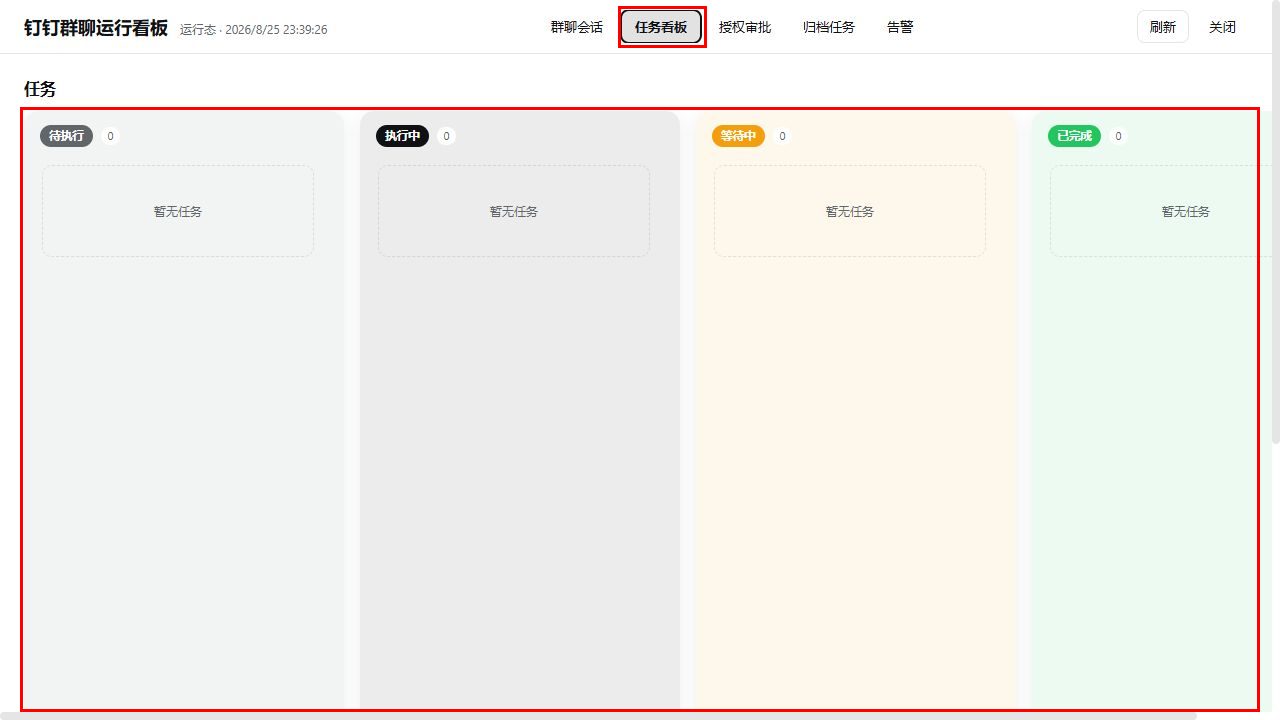
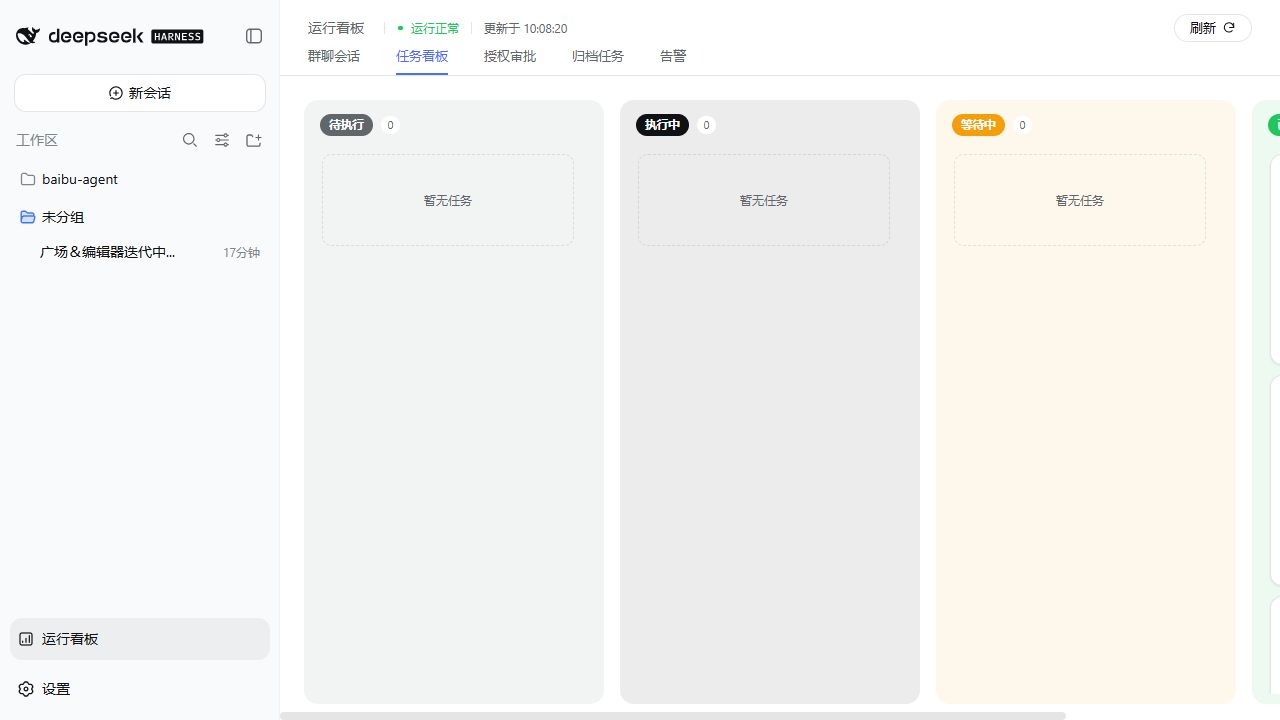
docs: 同步运行看板与安装说明

diff --git a/docs/manual/install-and-configure-dsh-web.md b/docs/manual/install-and-configure-dsh-web.md
@@ -36,7 +36,7 @@ Node.js 必须为 `v24` 或更高版本。仅能执行 `dsh --help` 不代表 We
 固定安装当前版本：
 
 ```powershell
-dsh plugin --profile web add dingtalk-dsh-assistant@0.5.2
+dsh plugin --profile web add dingtalk-dsh-assistant@0.5.3
 ```
 
 如需安装 npm 上的最新版本，可省略版本号：
@@ -382,7 +382,7 @@ dws:
 
 在已添加的测试群发送一条消息，然后从左侧插件看板打开“群聊会话”，确认消息进入该群固定的 resident Session。不要用启动成功或健康接口代替这一步真实消息验证。
 
-任务进入 Runtime 后，可从左侧菜单打开“运行看板”，再进入“任务看板”，按待执行、执行中、等待中和已完成四列检查状态。运行看板会替换右侧内容区域，左侧菜单和 Session 页面保持独立。执行中/等待中的卡片展示当前有效检查点、完成进度和单项执行时长；已完成、已归档任务不再重复展示检查点。红框标出任务看板入口和完整任务区域：
+任务进入 Runtime 后，可从左侧菜单打开“运行看板”，再进入“任务看板”，按待执行、执行中、等待中和已完成四列检查状态。运行看板会替换右侧内容区域，左侧菜单和 Session 页面保持独立；页面不重复显示标题和子标题，状态桶使用剩余视口高度，卡片在桶内滚动，不会把页面撑高。执行中/等待中卡片内的“任务”面板默认收起，只保留完成数/总数和进度；点击后展开各阶段任务、完成状态和单项执行时长。已完成、已归档任务不再重复展示该面板。红框标出任务看板入口和完整任务区域：
 
 ![DSH Web 任务看板](images/dsh-web-task-board-annotated.png)
 
@@ -440,6 +440,6 @@ Get-NetTCPConnection -LocalPort 18998 -ErrorAction SilentlyContinue
 5. 目标群成功绑定唯一 resident Session。
 6. 真实群消息进入该 Session。
 7. 开放写入后，最小任务完成回复并经钉钉回读确认。
-8. 运行看板中的收信箱、发信箱、任务检查点和状态与实际 Session/钉钉回读一致。
+8. 运行看板中的收信箱、发信箱、阶段任务和状态与实际 Session/钉钉回读一致；消息与审批表格的状态列位于最左侧，长内容最多显示两行，任务状态桶不产生页面级纵向滚动。
 
 前一层的成功不能替代后一层的验证。

diff --git a/CHANGELOG.md b/CHANGELOG.md
@@ -2,6 +2,14 @@
 
 本文件记录 `dingtalk-dsh-assistant` 每个正式版本的用户可见变化。版本号遵循[语义化版本](https://semver.org/lang/zh-CN/)，日期使用 `YYYY-MM-DD`。
 
+## [未发布]
+
+### 变更
+
+- 运行看板各页面移除重复的页面标题和子标题，任务状态桶使用剩余视口高度并消除底部补白与页面级纵向滚动。
+- 收信箱、发信箱和授权审批统一表头、行高、内边距与交替底色；状态列固定在最左侧，长内容最多显示两行。
+- 活动任务卡片中的检查点区域以“任务”面板展示并默认收起，只保留完成数/总数和进度，展开后显示阶段任务、状态和耗时。
+
 ## [0.5.3] - 2026-08-27
 
 ### 修复
